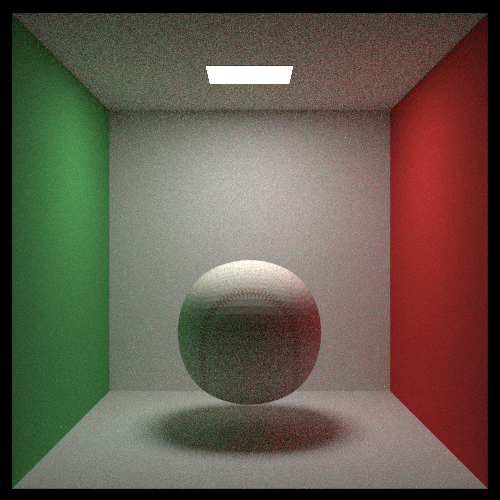
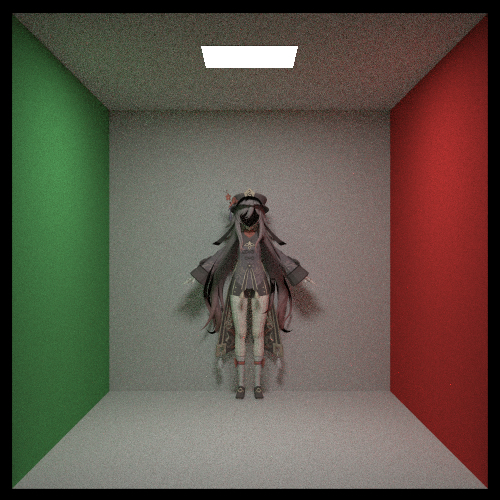
Update material

diff --git a/raytracer/src/scene.rs b/raytracer/src/scene.rs
@@ -1,4 +1,4 @@
-use std::{sync::Arc, str::FromStr, default};
+use std::{sync::Arc};
 
 use rand::Rng;
 
@@ -164,16 +164,53 @@ pub fn simple_light() -> HittableList {
 pub fn cornell_box() -> (HittableList, HittableList) {
     let mut world: HittableList = Default::default();
 
+    let light_strong = DiffuseLight::new(Color::new(30., 30., 30.));
+    let light_weak = DiffuseLight::new(Color::new(10., 10., 10.));
+
+    let light_top = XZRect::new(
+        213.0,
+        343.0,
+        127.0,
+        232.0,
+        554.0,
+        light_strong.clone(),
+    );
+//    let light_left = YZRect::new(
+//        100.0,
+//        300.0,
+//        100.0,
+//        150.0,
+//        554.0,
+//        light_weak.clone(),
+//    );
+//    let light_right = YZRect::new(
+//        100.0,
+//        300.0,
+//        100.0,
+//        150.0,
+//        1.0,
+//        light_weak,
+//    );
+//    let light_front = XYRect::new(
+//        0.0,
+//        0.0,
+//        555.0,
+//        555.0,
+//        -801.,
+//        light_strong,
+//    );
+
+    world.add(Arc::new(FlipFace::new(light_top.clone())));
+//    world.add(Arc::new(FlipFace::new(light_left)));
+//    world.add(Arc::new(light_right));
+
+
     let red = Lambertian::new(Color::new(0.65, 0.05, 0.05));
     let white = Lambertian::new(Color::new(0.73, 0.73, 0.73));
     let green = Lambertian::new(Color::new(0.12, 0.45, 0.15));
-    let light = DiffuseLight::new(Color::new(30., 30., 30.));
 
     world.add(Arc::new(YZRect::new(0., 555., 0., 555., 555., green)));
     world.add(Arc::new(YZRect::new(0., 555., 0., 555., 0., red)));
-    world.add(Arc::new(FlipFace::new(XZRect::new(
-        213., 343., 227., 332., 554., light,
-    ))));
     world.add(Arc::new(XZRect::new(0., 555., 0., 555., 0., white.clone())));
     world.add(Arc::new(XZRect::new(
         0.,
@@ -184,6 +221,8 @@ pub fn cornell_box() -> (HittableList, HittableList) {
         white.clone(),
     )));
     world.add(Arc::new(XYRect::new(0., 555., 0., 555., 555., white)));
+
+    // world.add(Arc::new(FlipFace::new(XYRect::new(213., 343., 217., 332., -100., light))));
 
     //    let box1 = Boxes::new(
     //        Point3::new(0., 0., 0.),
@@ -221,14 +260,10 @@ pub fn cornell_box() -> (HittableList, HittableList) {
     get_object(&mut world);
 
     let mut lights = HittableList::default();
-    lights.add(Arc::new(XZRect::new(
-        213.,
-        343.,
-        227.,
-        332.,
-        554.,
-        Dielectric::new(0.),
-    )));
+    
+    lights.add(Arc::new(light_top));
+//    lights.add(Arc::new(light_left));
+//    lights.add(Arc::new(light_right));
 
     (world, lights)
 }
@@ -401,8 +436,9 @@ pub fn final_scene() -> HittableList {
 
 fn get_object(world: &mut HittableList) {
 
-    let file_name = "source/obj/10483_baseball_v1_L3.obj";
     // let file_jpg = "source/obj/patrick.png";
+    let file_path = "source/HutaoObj/";
+    let file_name = file_path.to_string() + "Hutao.obj";
 
     let obj = tobj::load_obj(
         file_name,
@@ -442,9 +478,9 @@ fn get_object(world: &mut HittableList) {
             vertices.push(Point3::new(x, y, z));
         }
         let mut object = HittableList::default();
-        let mut file_jpg = "source/obj/".to_string();
+        let mut file_jpg = file_path.to_string();
         file_jpg += materials[mesh.material_id.unwrap()].diffuse_texture.as_str();
-        let image = image::open(file_jpg).expect("failed").to_rgb8();
+        let image = Arc::new(image::open(file_jpg).expect("failed").to_rgb8());
 
         for v in 0..mesh.indices.len() / 3 {
             let x = mesh.indices[v * 3] as usize;
@@ -460,7 +496,6 @@ fn get_object(world: &mut HittableList) {
             
             let tex_ptr = ObjTexture::new(u1, v1, u2, v2, u3, v3, image.clone());
 
-
             let tri = Triangle::new(
                 vertices[x],
                 vertices[y],
@@ -472,9 +507,9 @@ fn get_object(world: &mut HittableList) {
         }
 
         let object = BvhNode::new_list(&object, 0., 1.);
-        let object = Zoom::new(object, 25.);
-        let object = RotateY::new(object, 180.);
-        let object = Translate::new(object, Vec3::new(278., 150., 400.));
+        let object = Zoom::new(object, 20.);
+        let object = RotateY::new(object, 0.);
+        let object = Translate::new(object, Vec3::new(278., 0., 500.));
         world.add(Arc::new(object));
     }
 

diff --git a/raytracer/src/texture/mod.rs b/raytracer/src/texture/mod.rs
@@ -1,5 +1,7 @@
 pub mod perlin;
 
+use std::sync::Arc;
+
 use image::{GenericImageView, RgbImage};
 
 use crate::basic::vec::{Color, Point3};
@@ -144,11 +146,11 @@ pub struct ObjTexture {
     pub v2: f64,
     pub u3: f64,
     pub v3: f64,
-    pub img: RgbImage,
+    pub img: Arc<RgbImage>,
 }
 
 impl ObjTexture {
-    pub fn new(u1: f64, v1: f64, u2: f64, v2: f64, u3: f64, v3: f64, img: RgbImage) -> Self {
+    pub fn new(u1: f64, v1: f64, u2: f64, v2: f64, u3: f64, v3: f64, img: Arc<RgbImage>) -> Self {
         Self {
             u1,
             v1,

diff --git a/raytracer/src/hittable/aarect.rs b/raytracer/src/hittable/aarect.rs
@@ -10,6 +10,7 @@ use crate::{
     material::Material,
 };
 
+#[derive(Clone)]
 pub struct XYRect<M>
 where
     M: Material,
@@ -71,6 +72,7 @@ impl<M: Material> Hittable for XYRect<M> {
     }
 }
 
+#[derive(Clone)]
 pub struct XZRect<M>
 where
     M: Material,
@@ -153,6 +155,7 @@ impl<M: Material> Hittable for XZRect<M> {
     }
 }
 
+#[derive(Clone)]
 pub struct YZRect<M>
 where
     M: Material,

diff --git a/README.md b/README.md
@@ -21,13 +21,13 @@
 
 - [x] Book3 
 
-- [x] rack 1: Reduce Contention 
+- [x] Track 1: Reduce Contention 
 
-- [x] rack 2: Static Dispatch 
+- [x] Track 2: Static Dispatch 
 
-- [x] rack 4: PDF Static Dispatch
+- [x] Track 4: PDF Static Dispatch
 
-- [x] rack 8: Support for obj
+- [x] Track 8: Support for obj
  
 
 ## 课程介绍
